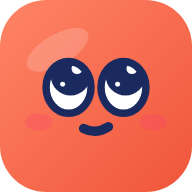
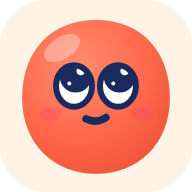
Het app-icoon is de hele Denker, op room (ADR-246)
Het icoon was een koraal vierkant met Denkers gezicht; in het logo is Denker
een ronde vorm met glans en wangen. Nu is het icoon het beeldmerk zelf op een
tegel in room, de maskable versie met Denker in de veilige zone, en het
tabblad Denker los in de eenvoudige tekening.

Getekend in docs/leer.js (variant icoon en favicon) en geschreven door
tools/merk-uit-leer.mjs; logo's, uitdrukkingen en og-image zijn ongewijzigd.

Claude-Session: https://claude.ai/code/session_01BGuQ5kgGV4VRSK7jk6dvcz

diff --git a/docs/leer.js b/docs/leer.js
@@ -5,7 +5,7 @@
   window.__leerLoaded = true;
 
   const C = {
-    koraal: '#FF6A4D', koraalDiep: '#C8412A', cacao: '#2A1E17', geel: '#FFC93C', geelDiep: '#8A6300',
+    koraal: '#FF6A4D', koraalDiep: '#C8412A', cacao: '#2A1E17', room: '#FFF3E6', geel: '#FFC93C', geelDiep: '#8A6300',
   };
   const VAK = {
     topo: { f: '#12B3A0', d: '#0B7468', t: '#DDF6F1', n: 'Topo' },
@@ -189,9 +189,12 @@
       const ink = k === 'wit' ? '#FFFFFF' : C.cacao; const pdot = k === 'kleur' ? C.koraal : ink;
       let svg;
       if (v === 'icoon') {
-        const id = this._id;
-        svg = `<svg viewBox="0 0 100 100" height="${h}" role="img" aria-label="leer.nu"><defs><linearGradient id="ig${id}" x1="0" y1="0" x2="1" y2="1"><stop offset="0" stop-color="#FF8466"/><stop offset="1" stop-color="#F0553A"/></linearGradient></defs><rect width="100" height="100" rx="24" fill="url(#ig${id})"/><ellipse cx="30" cy="26" rx="18" ry="8" transform="rotate(-30 30 26)" fill="#fff" opacity=".18"/>
-          <g transform="translate(50 52) scale(1.3) translate(-50 -55)"><ellipse cx="27" cy="64" rx="5.5" ry="3.4" fill="#FF3D6E" opacity=".28"/><ellipse cx="73" cy="64" rx="5.5" ry="3.4" fill="#FF3D6E" opacity=".28"/><g class="face">${eye(39, 'i' + id, false, { dx: 0.8, dy: -4.6 })}${eye(61, 'i' + id, false, { dx: 0.8, dy: -4.6 })}${lijn('M45 66.5 Q50 69 55 65.8', 3.74)}</g></g></svg>`;
+        // Het beeldmerk zelf op een tegel in room: dezelfde Denker als in het logo, heel, niet alleen zijn gezicht.
+        svg = `<svg viewBox="0 0 100 100" height="${h}" role="img" aria-label="leer.nu"><rect width="100" height="100" rx="24" fill="${C.room}"/><g transform="translate(50 50.5) scale(1.04) translate(-50 -55.5)">${logoDenker(this._id)}</g></svg>`;
+      } else if (v === 'favicon') {
+        // Het tabblad: Denker los en in de eenvoudige tekening, want onder 36 px vallen glans, wangen en lichtjes weg.
+        const d = denkerDelen('denken', this._id, true);
+        svg = `<svg viewBox="11 15 78 81" height="${h}" role="img" aria-label="leer.nu">${d.defs}${d.lijf}</svg>`;
       } else if (v === 'beeldmerk') {
         svg = `<svg viewBox="0 5.5 100 100" height="${h}" role="img" aria-label="leer.nu">${logoDenker(this._id)}</svg>`;
       } else if (v === 'staand') {

diff --git a/docs/ROADMAP.md b/docs/ROADMAP.md
@@ -208,7 +208,7 @@ Niets open.
 
 | PR        | Wat                                                                                                                                                                                                                                                                                                                                  | ADR      |
 | --------- | ------------------------------------------------------------------------------------------------------------------------------------------------------------------------------------------------------------------------------------------------------------------------------------------------------------------------------------ | -------- |
-| #186      | De kop van een vak- of onderwerppagina noemt zonder naam het onderwerp ("Provincies van Nederland oefenen"), en onder een onderwerp staan de andere onderwerpen van het vak als echte links, voor Google                                                                                                                             | 245      |
+| #186      | De kop van een vak- of onderwerppagina noemt zonder naam het onderwerp ("Provincies van Nederland oefenen"), en onder een onderwerp staan de andere onderwerpen van het vak als echte links, voor Google. Het app-icoon is de hele Denker op een tegel in room, het tabblad Denker los                                               | 245, 246 |
 | #185      | Groep 1 en 2 in de groepsvraag, eerst om te meten: voor een kleuter "Voor groep 1 en 2 komt er iets aan" op Vandaag, de teller telt `/1` en `/2`, migratie 0004, en het plan met de opnamelijst in `kleuters.md`                                                                                                                     | 244      |
 | #184      | De groep bovenaan Vandaag: een nieuw kind kiest zijn groep (of "Weet ik niet") en daarna een van de vijf onderwerpen van die groep, in plaats van altijd de provincies; de teller telt de gekozen groep                                                                                                                              | 243      |
 | #183      | Wat er op de server staat, nu en met het gezinsaccount; een vijfde vraag voor de privacyverklaring (elk antwoord van een kind bewaren of niet); de logs van Supabase bij de verwerkersovereenkomst; en geen klantnamen in de notitie van een premiumcode                                                                             | —        |

diff --git a/docs/DECISIONS.md b/docs/DECISIONS.md
@@ -14211,6 +14211,39 @@ volgt Google niet. De pagina's hingen dus alleen aan de sitemap.
 - **Alle onderwerpen van het vak**, ook als dat bij rekenen een lange rij is.
   Het zijn dezelfde links als op de pagina voor Google, uit één lijst.
 
+## ADR-246 — Het app-icoon is de hele Denker, op room
+
+**Status:** accepted. **Date:** 2026-09-30. Op verzoek van de eigenaar: "Wijzig
+ook het app icoon op basis van het nieuwe beeldmerk." Wijzigt het app-icoon
+van ADR-237.
+
+**Wat er mis was.** Het app-icoon was een koraal vierkant met het gezicht van
+Denker erop: het vlak wás zijn lijf. In het logo, op de site en in de app is
+Denker een ronde vorm met glans en wangen. Op het beginscherm leek het icoon
+daardoor een ander merk dan het logo naast de naam.
+
+**Besluit.**
+
+- **Het icoon is het beeldmerk op een tegel in room** (`#FFF3E6`): dezelfde
+  Denker die denkt als in het logo, heel, zonder schaduw. `leer-logo
+variant="icoon"` in `docs/leer.js` tekent hem; `tools/merk-uit-leer.mjs`
+  schrijft de bestanden.
+- **De maskable versie** vult het hele vlak met room en zet Denker in de veilige
+  zone, zoals eerst het gezicht.
+- **Het tabblad** (`favicon.svg`, `.ico`, 16 en 32 px) krijgt Denker los, in de
+  eenvoudige tekening (`variant="favicon"`): onder 36 px vallen glans, wangen
+  en lichtjes weg, zoals de stijlgids zegt. Een tegel in room zou in een licht
+  tabblad wegvallen.
+- **De rest blijft**: logo's, uitdrukkingen, og-image en het manifest zijn
+  byte voor byte gelijk.
+
+**Afwegingen.**
+
+- **Room tegenover koraal als grond.** Een koraal tegel valt meer op tussen
+  andere apps, maar dan is Denker geen vorm meer, alleen een gezicht. Room is
+  ook de kleur van het opstartscherm (`background_color`), dus het icoon en het
+  scherm dat erna komt, zijn één beeld.
+
 ## Deferred with accounts and commerce (ADR-014)
 
 Recorded in full in the 2026-09-05 revision history; summarised here because
